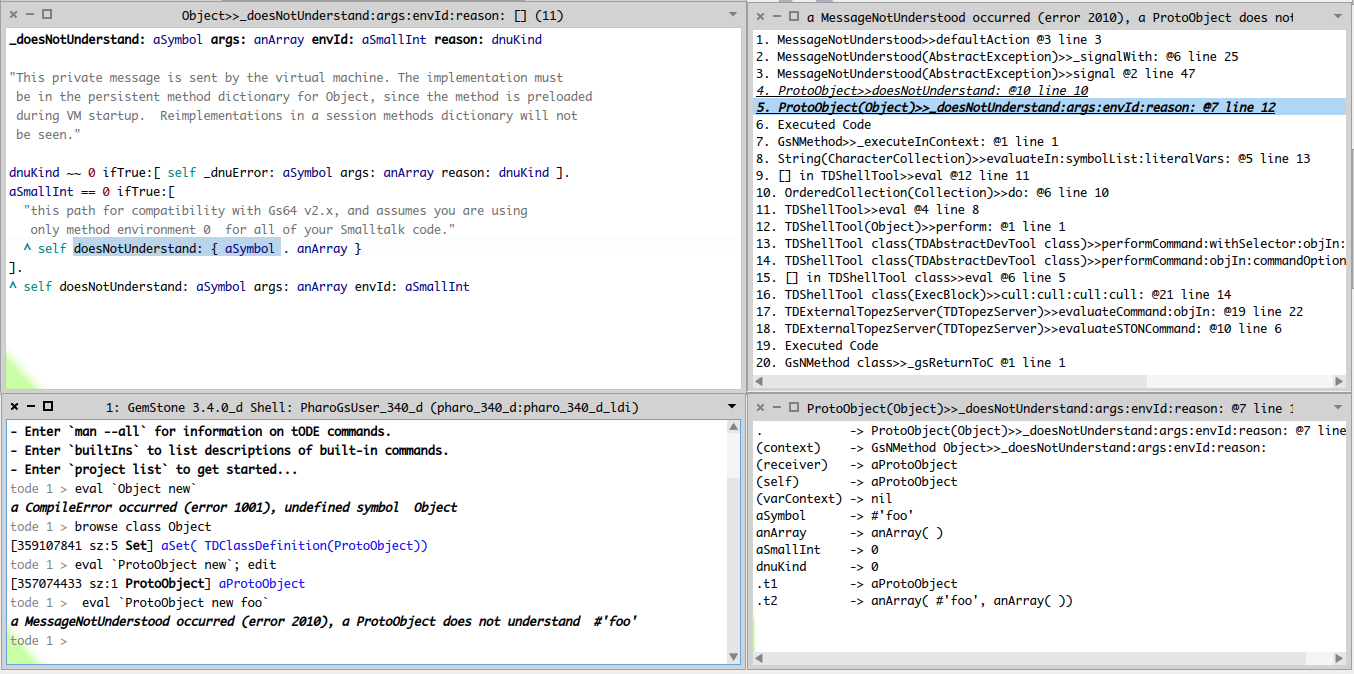
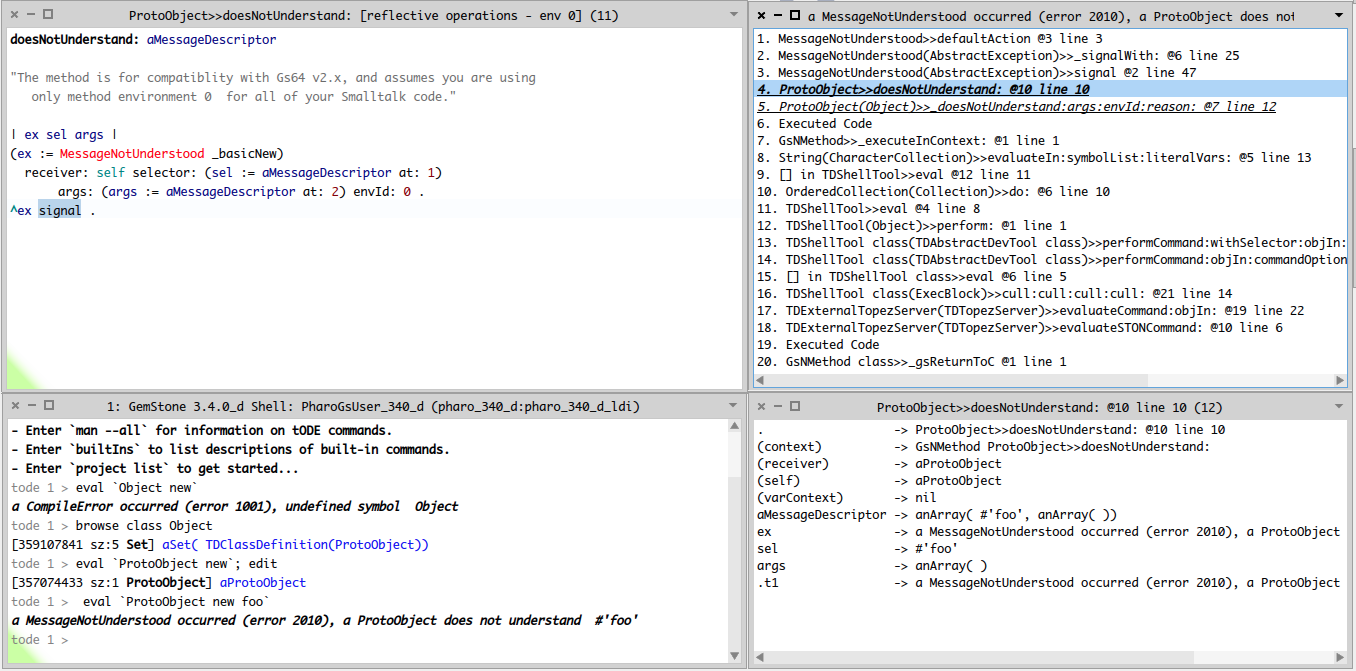
switch to doesNotUnderstand: frame in tode debugger

Changed region(s): [[0.0, 0.0, 1.0, 1.0], [0.0, 0.0, 0.4653, 0.4471]]

diff --git a/README.md b/README.md
@@ -30,7 +30,7 @@ doesNotUnderstand: aMessageDescriptor
 
 Screen shot of tODE environment opened on ProtoObject class, browsing method environmen 0 methods:
 
-<img style="border: 2px solid #000000;" src="https://raw.githubusercontent.com/dalehenrich/PharoGs/master/docs/images/tode_2016-12-24.png" />
+<img style="border: 2px solid #000000;" src="https://raw.githubusercontent.com/dalehenrich/PharoGs/gs/docs/images/tode_2016-12-24.png" />
 
 ProtoObject is the only class in system (*CompileError occurred (error 1001), undefined symbol  Object* in shell window and no ProtoObject subclasses in hierarchy pane). Note inspector pane open on a ProtoObject instance.
 
@@ -38,12 +38,12 @@ ProtoObject is the only class in system (*CompileError occurred (error 1001), un
 
 Here's a screen shot of a topaz session logged in as `PharoGsUser`:
 
-<img style="border: 2px solid #000000;" src="https://raw.githubusercontent.com/dalehenrich/PharoGs/master/docs/images/topaz_2016-12-24.png" />
+<img style="border: 2px solid #000000;" src="https://raw.githubusercontent.com/dalehenrich/PharoGs/gs/docs/images/topaz_2016-12-24.png" />
 
 
 ... and here's a screen shot of a tODE debugger open on an MNU:
 
-<img style="border: 2px solid #000000;" src="https://raw.githubusercontent.com/dalehenrich/PharoGs/master/docs/images/tode_debugger_2016-12-24.png" />
+<img style="border: 2px solid #000000;" src="https://raw.githubusercontent.com/dalehenrich/PharoGs/gs/docs/images/tode_debugger_2016-12-24.png" />
 
 [1]: pharo/PharoGs-Basic-ProtoObject.package/ProtoObject.class
 [2]: pharo/PharoGs-Dev-ProtoObject.package/ProtoObject.extension
